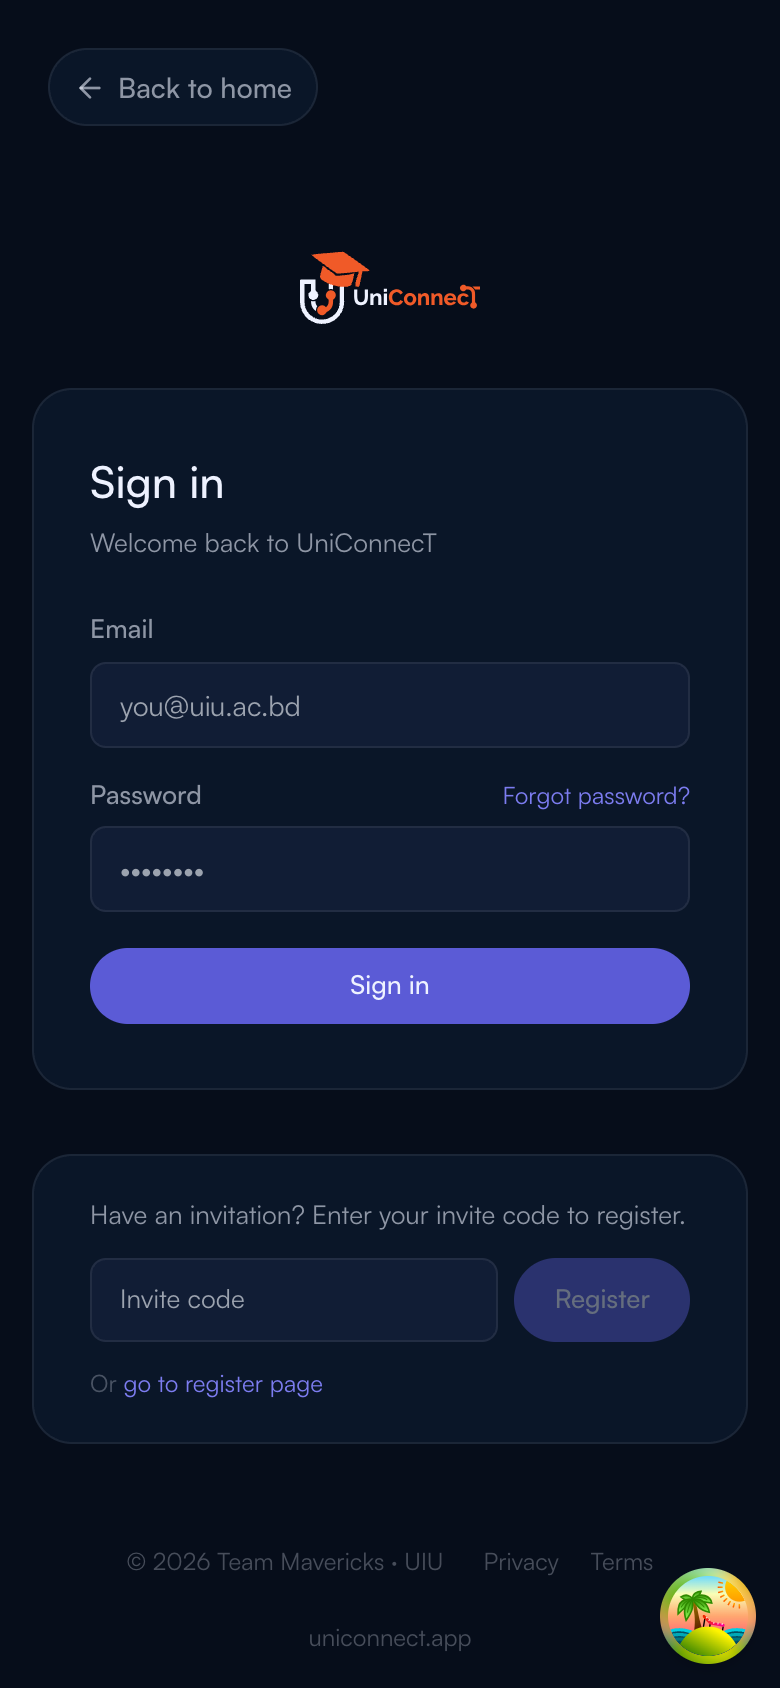
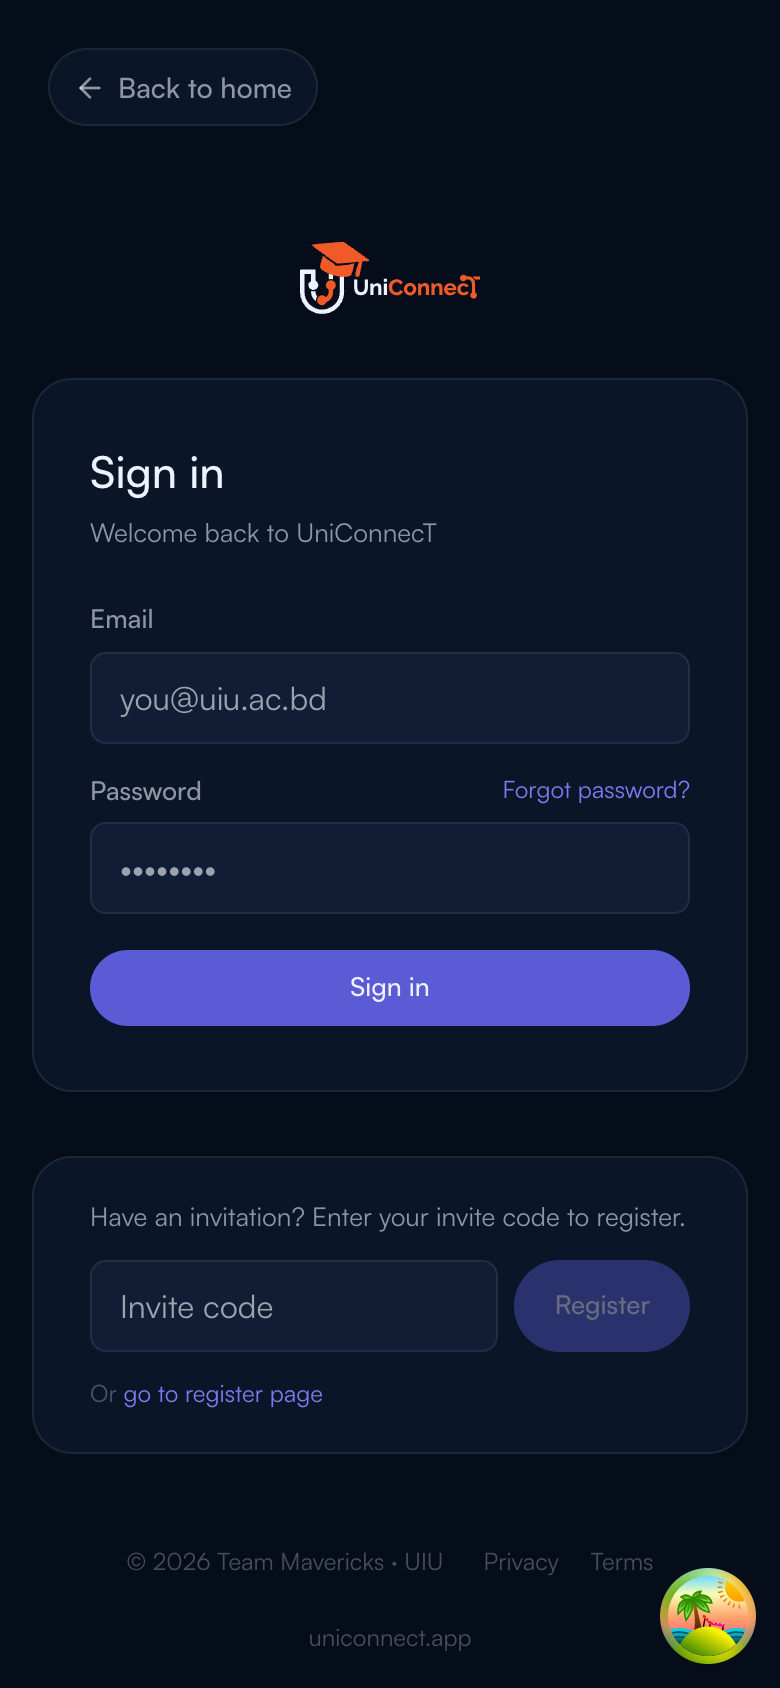
fix(mobile): optimize layout, dialogs, and keyboard handling for mobile
- shell: collapse left rail at 767px (match bottom nav) to close a 768px
  dead-zone where no primary navigation rendered
- forms: force 16px on inputs/textarea/select under 767px to stop iOS
  Safari focus-zoom; add interactive-widget=resizes-content so footers and
  the chat input ride above the on-screen keyboard
- create-post: full-screen composer on mobile (slide-up sheet, dynamic
  viewport); wrap footer actions to their own row so Post stays on-screen
- dialogs: swap vh height caps to dvh on the form modals (CreateGroup,
  EditProfile, Experience, Education, Featured) so they fit above the keyboard
- buttons: add whitespace-nowrap so pill labels never wrap
- messages: bump conversation back button to a 44px touch target

diff --git a/apps/web/src/styles/index.css b/apps/web/src/styles/index.css
@@ -329,7 +329,10 @@ select:focus-visible {
   }
 }
 
-@media (max-width: 768px) {
+/* 767px (not 768) so the left rail collapses on exactly the same breakpoint
+   the mobile bottom nav appears at — otherwise a 768px-wide viewport loses the
+   left rail before the bottom nav exists, leaving no primary navigation. */
+@media (max-width: 767px) {
   .feed-layout-grid {
     grid-template-columns: 1fr;
     padding: 12px 12px 0;
@@ -337,6 +340,54 @@ select:focus-visible {
   }
   .feed-layout-left {
     display: none;
+  }
+}
+
+/* ── Mobile form controls — prevent iOS Safari focus-zoom ─────────────
+   Any input under 16px makes iOS zoom the viewport on focus and never zoom
+   back, shifting the whole layout. The app styles most fields inline at
+   12–14px, so this needs `!important` to win over the inline font-size.
+   16px is the minimum that suppresses the zoom (see DESIGN mobile-first). */
+@media (max-width: 767px) {
+  input:not([type='checkbox']):not([type='radio']):not([type='range']):not([type='color']),
+  textarea,
+  select {
+    font-size: 16px !important;
+  }
+}
+
+/* ── Mobile create-post composer — full-screen sheet ─────────────────
+   The desktop modal is vertically centred at max-height: 90vh, which leaves
+   the textarea behind the on-screen keyboard on phones. On mobile it becomes a
+   full-screen composer sized to the dynamic viewport: the field sits under the
+   header, the body scrolls, the footer stays pinned. Pairs with the
+   `interactive-widget=resizes-content` viewport hint (index.html) so the footer
+   lifts above the keyboard on Android. Enters as a bottom sheet, not a scale. */
+@media (max-width: 767px) {
+  .create-post-overlay {
+    padding: 0 !important;
+    align-items: stretch !important;
+  }
+  .create-post-panel {
+    width: 100% !important;
+    max-width: none !important;
+    height: 100dvh !important;
+    max-height: 100dvh !important;
+    border: none !important;
+    border-radius: 0 !important;
+  }
+  .create-post-panel.modal-panel-enter {
+    animation-name: sheet-in;
+    transform-origin: bottom center;
+  }
+  /* 360px can't fit photo + poll + Save-as-draft + Cancel + Post on one row,
+     so the actions drop to their own right-aligned row under the tools. */
+  .composer-footer {
+    flex-wrap: wrap;
+  }
+  .composer-footer-actions {
+    width: 100%;
+    justify-content: flex-end;
   }
 }
 

diff --git a/apps/web/src/features/feed/components/CreatePost.tsx b/apps/web/src/features/feed/components/CreatePost.tsx
@@ -367,6 +367,7 @@ export function CreatePost({ editPost, onDismissEdit }: Props) {
       {/* Modal */}
       {open && (
         <div
+          className="create-post-overlay"
           style={{
             position: 'fixed',
             inset: 0,
@@ -383,9 +384,9 @@ export function CreatePost({ editPost, onDismissEdit }: Props) {
             onClick={handleClose}
           />
 
-          {/* Modal panel */}
+          {/* Modal panel — full-screen composer on mobile (see .create-post-panel in index.css) */}
           <div
-            className={instantOpen ? undefined : 'modal-panel-enter'}
+            className={`create-post-panel${instantOpen ? '' : ' modal-panel-enter'}`}
             style={{
               position: 'relative',
               width: '100%',
@@ -754,6 +755,7 @@ export function CreatePost({ editPost, onDismissEdit }: Props) {
 
             {/* Footer */}
             <div
+              className="composer-footer"
               style={{
                 padding: '10px 16px',
                 borderTop: '0.5px solid var(--border-default)',
@@ -786,7 +788,7 @@ export function CreatePost({ editPost, onDismissEdit }: Props) {
                 </TabBtn>
               </div>
 
-              <div style={{ display: 'flex', gap: 8 }}>
+              <div className="composer-footer-actions" style={{ display: 'flex', gap: 8 }}>
                 {!isEditMode && (
                   <GhostBtn onClick={() => handleSubmit(true)} disabled={!canSubmit()}>
                     Save as draft

diff --git a/apps/web/src/components/Button.tsx b/apps/web/src/components/Button.tsx
@@ -5,7 +5,7 @@ type BaseProps = ButtonHTMLAttributes<HTMLButtonElement> & {
 };
 
 const base =
-  'inline-flex items-center justify-center gap-[7px] text-[13px] font-medium cursor-pointer transition-[opacity,transform] duration-150 ease-out ' +
+  'inline-flex items-center justify-center whitespace-nowrap gap-[7px] text-[13px] font-medium cursor-pointer transition-[opacity,transform] duration-150 ease-out ' +
   'hover:opacity-90 active:scale-[0.97] disabled:opacity-40 disabled:cursor-not-allowed ' +
   'focus:outline-none focus-visible:ring-2 focus-visible:ring-[var(--uc-indigo-xl)] focus-visible:ring-offset-2 focus-visible:ring-offset-[var(--surface-page)]';
 

diff --git a/apps/web/index.html b/apps/web/index.html
@@ -3,7 +3,7 @@
   <head>
     <meta charset="UTF-8" />
     <link rel="icon" type="image/svg+xml" href="/favicon.svg?v=2" />
-    <meta name="viewport" content="width=device-width, initial-scale=1.0" />
+    <meta name="viewport" content="width=device-width, initial-scale=1.0, interactive-widget=resizes-content" />
     <meta name="color-scheme" content="dark light" />
     <title>UniConnecT — Your campus. One place.</title>
     <meta name="description" content="The private social network for universities — connecting students, alumni, and faculty in one place. Free for UIU students." />

diff --git a/apps/web/src/features/profile/components/EducationModal.tsx b/apps/web/src/features/profile/components/EducationModal.tsx
@@ -113,7 +113,7 @@ export function EducationModal({ userId, entry, onClose }: Props) {
     >
       <div
         style={{
-          width: '100%', maxWidth: 480, maxHeight: 'calc(100vh - 48px)',
+          width: '100%', maxWidth: 480, maxHeight: 'calc(100dvh - 48px)',
           background: 'var(--surface-card)', border: '0.5px solid var(--border-strong)',
           borderRadius: 'var(--r-xl)', display: 'flex', flexDirection: 'column', overflow: 'hidden',
         }}

diff --git a/apps/web/src/features/profile/components/FeaturedModal.tsx b/apps/web/src/features/profile/components/FeaturedModal.tsx
@@ -94,7 +94,7 @@ export function FeaturedModal({ userId, onClose }: Props) {
     >
       <div
         style={{
-          width: '100%', maxWidth: 480, maxHeight: 'calc(100vh - 48px)',
+          width: '100%', maxWidth: 480, maxHeight: 'calc(100dvh - 48px)',
           background: 'var(--surface-card)', border: '0.5px solid var(--border-strong)',
           borderRadius: 'var(--r-xl)', display: 'flex', flexDirection: 'column', overflow: 'hidden',
         }}

diff --git a/apps/web/src/pages/ConversationPage.tsx b/apps/web/src/pages/ConversationPage.tsx
@@ -94,8 +94,8 @@ export default function ConversationPage() {
                 display: 'flex',
                 alignItems: 'center',
                 justifyContent: 'center',
-                width: 40,
-                height: 40,
+                width: 44,
+                height: 44,
                 borderRadius: 'var(--r-pill)',
                 background: 'transparent',
                 border: 'none',

diff --git a/apps/web/src/features/profile/components/ExperienceModal.tsx b/apps/web/src/features/profile/components/ExperienceModal.tsx
@@ -147,7 +147,7 @@ export function ExperienceModal({ userId, entry, onClose }: Props) {
         style={{
           width: '100%',
           maxWidth: 480,
-          maxHeight: 'calc(100vh - 48px)',
+          maxHeight: 'calc(100dvh - 48px)',
           background: 'var(--surface-card)',
           border: '0.5px solid var(--border-strong)',
           borderRadius: 'var(--r-xl)',

diff --git a/apps/web/src/features/profile/components/EditProfileModal.tsx b/apps/web/src/features/profile/components/EditProfileModal.tsx
@@ -372,7 +372,7 @@ export function EditProfileModal({ onClose }: Props) {
         style={{
           width: '100%',
           maxWidth: 480,
-          maxHeight: 'calc(100vh - 48px)',
+          maxHeight: 'calc(100dvh - 48px)',
           background: 'var(--surface-card)',
           border: '0.5px solid var(--border-strong)',
           borderRadius: 'var(--r-xl)',

diff --git a/apps/web/src/features/groups/components/CreateGroupModal.tsx b/apps/web/src/features/groups/components/CreateGroupModal.tsx
@@ -98,7 +98,7 @@ export function CreateGroupModal({ onClose }: { onClose: () => void }) {
           borderRadius: 'var(--r-lg)',
           width: '100%',
           maxWidth: 480,
-          maxHeight: '90vh',
+          maxHeight: '90dvh',
           overflowY: 'auto',
           display: 'flex',
           flexDirection: 'column',
